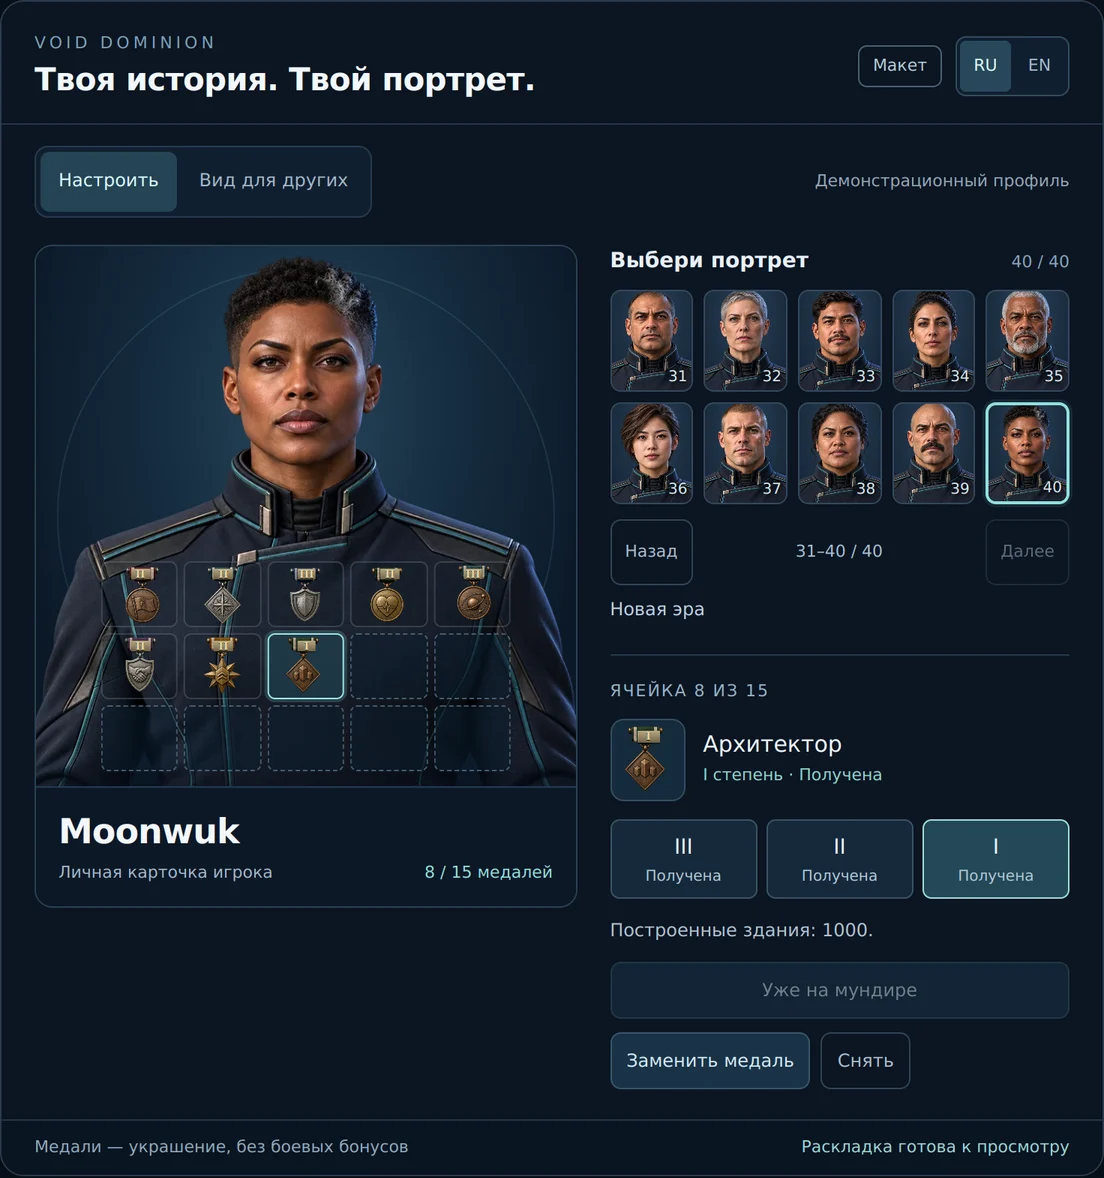
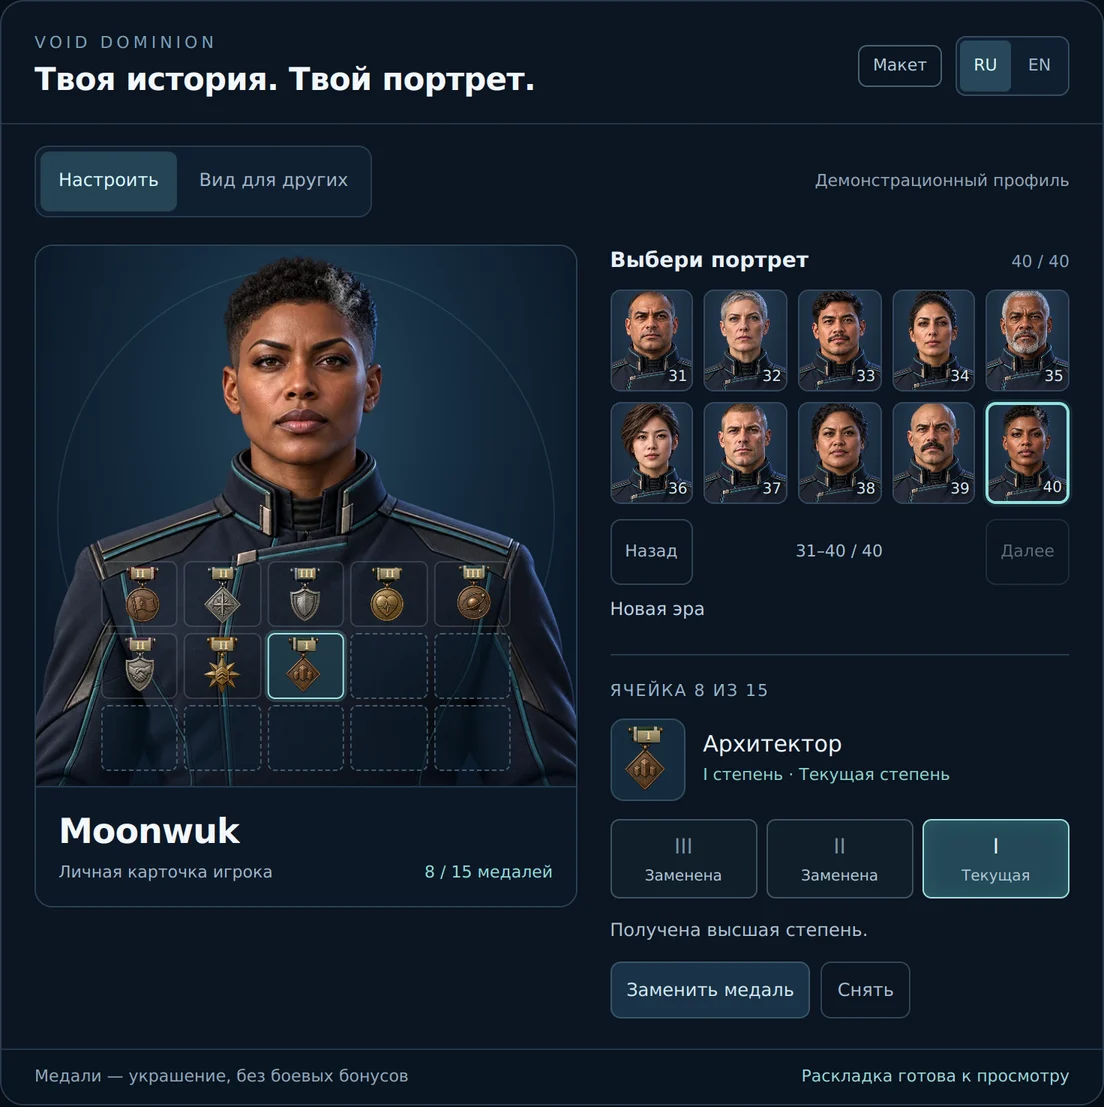
Исправить галерею и автоматическое повышение степеней

diff --git a/docs/mockups/player-profile/index.html b/docs/mockups/player-profile/index.html
@@ -108,10 +108,11 @@
     #vd-player-profile .mg-grade-pin{position:absolute;top:11%;left:32%;width:40%;height:16%;display:flex;align-items:center;justify-content:center;font:600 7px Georgia,serif;line-height:1;color:#e9d8ad;background:linear-gradient(#b6a780,#706246);border-radius:.5px;text-shadow:0 .5px .3px #18120a;box-shadow:0 .4px .5px #0008}
     #vd-player-profile .mg-cloth-slot .mg-grade-pin{font-size:3px}
     #vd-player-profile .mg-grades{display:grid;grid-template-columns:repeat(3,1fr);gap:6px;margin:12px 0}
-    #vd-player-profile .mg-grade-choice{border:1px solid #3b5366;border-radius:6px;background:#15293b;padding:7px 4px;min-height:48px}
-    #vd-player-profile .mg-grade-choice[aria-pressed="true"]{border-color:#9cdedb;background:#234857}
+    #vd-player-profile .mg-grade-choice{display:block;text-align:center;border:1px solid #3b5366;border-radius:6px;background:#15293b;padding:7px 4px;min-height:48px}
+    #vd-player-profile .mg-grade-choice[data-state="current"]{border-color:#9cdedb;background:#234857;box-shadow:inset 0 0 12px #66d6d522}
+    #vd-player-profile .mg-grade-choice[data-state="replaced"]{border-color:#405362;background:#101e2a;color:#78909f}
+    #vd-player-profile .mg-grade-choice[data-state="locked"]{opacity:.58}
     #vd-player-profile .mg-grade-choice small{display:block;font-size:10px;color:#b4c8d8;margin-top:3px}
-    #vd-player-profile .mg-apply-grade{margin-bottom:9px;width:100%}
   </style>
   <article class="mg-window" aria-label="Макет персонализации карточки игрока Void Dominion">
     <header class="mg-top">
@@ -147,7 +148,7 @@
           <div class="mg-detail-head"><div class="mg-detail-emblem"></div><div><div class="mg-detail-title"></div><div class="mg-detail-state"></div></div></div>
           <div class="mg-grades" role="group"></div><p class="mg-criterion"></p>
           <div class="mg-progress-wrap" hidden><div class="mg-progress" role="progressbar" aria-label="Прогресс получения медали"><div class="mg-progress-fill"></div></div><div class="mg-progress-label"></div></div>
-          <button type="button" class="mg-action mg-apply-grade" data-action="apply-grade" hidden></button><div class="mg-actions"><button class="mg-action" type="button" data-action="choose">Выбрать медаль</button><button class="mg-action mg-quiet" type="button" data-action="remove" hidden>Снять</button></div>
+          <div class="mg-actions"><button class="mg-action" type="button" data-action="choose">Выбрать медаль</button><button class="mg-action mg-quiet" type="button" data-action="remove" hidden>Снять</button></div>
         </section>
         <div class="mg-public-list" aria-label="Медали на портрете" hidden></div>
       </aside>
@@ -183,7 +184,7 @@
     const byId = Object.fromEntries(medals.map(m => [m.id,m]));
     const SLOT_COUNT=15;
     const initialMedals=['first','map','shield','rescue','colony','ally','service','engineer'];
-    const state = {portrait:0,slots:Array.from({length:SLOT_COUNT},(_,i)=>initialMedals[i]??null),slot:0,mode:'public',filter:'earned',open:false,inspect:null,language:'ru',page:0,previewGrade:null,grades:{}};
+    const state = {portrait:0,slots:Array.from({length:SLOT_COUNT},(_,i)=>initialMedals[i]??null),slot:0,mode:'public',filter:'earned',open:false,inspect:null,language:'ru',page:0,grades:{}};
     const englishMedals = {
       first:{name:'First Frontier'},
       map:{name:'Cartographer'},
@@ -269,12 +270,21 @@
       $('.mg-progress').setAttribute('aria-label',t('Прогресс получения медали','Progress towards this medal'));
       $('.mg-cosmetic-caption').textContent=t('Медали — украшение, без боевых бонусов','Cosmetic awards · No combat bonuses');
     }
+    function portraitSource(index){return 'assets/portrait-'+String(index+1).padStart(2,'0')+'.webp';}
     function drawPortraits(){
-      $('.mg-main-portrait').src=portraits[state.portrait].src;
+      $('.mg-main-portrait').src=portraitSource(state.portrait);
       $('.mg-main-portrait').alt=t('Портрет «'+pname(state.portrait)+'» с выбранными медалями',pname(state.portrait)+' portrait with selected medals');
       $('.mg-portrait-counter').textContent=portraits[state.portrait].id+' / '+portraits.length;
       $('.mg-selected-name').textContent=pname(state.portrait);
-      $('.mg-portraits').innerHTML=portraits.slice(state.page*10,state.page*10+10).map((p,offset)=>{const i=state.page*10+offset;return '<button type="button" class="mg-portrait-option" data-portrait="'+i+'" aria-label="'+escapeAttr(t('Портрет ','Portrait ')+p.id+': '+pname(i))+'" aria-pressed="'+(i===state.portrait)+'"><img src="'+p.src+'" alt="" width="90" height="90" loading="lazy"><span class="mg-thumb-number" aria-hidden="true">'+p.id+'</span></button>';}).join('');
+      $('.mg-portraits').replaceChildren(...portraits.slice(state.page*10,state.page*10+10).map((p,offset)=>{
+        const i=state.page*10+offset,button=document.createElement('button'),img=document.createElement('img'),number=document.createElement('span');
+        button.type='button';button.className='mg-portrait-option';button.dataset.portrait=i;
+        button.setAttribute('aria-label',t('Портрет ','Portrait ')+p.id+': '+pname(i));
+        button.setAttribute('aria-pressed',i===state.portrait);
+        img.src=portraitSource(i);img.alt='';img.width=90;img.height=90;img.loading='lazy';
+        number.className='mg-thumb-number';number.setAttribute('aria-hidden','true');number.textContent=p.id;
+        button.append(img,number);return button;
+      }));
       $('.mg-page-label').textContent=(state.page*10+1)+'–'+Math.min((state.page+1)*10,portraits.length)+' / '+portraits.length;
       $('.mg-pages').setAttribute('aria-label',t('Страницы портретов','Portrait pages'));
       $('[data-page="-1"]').textContent=t('Назад','Previous');
@@ -301,21 +311,18 @@
     }
     function drawDetail(){
       const m=activeMedal(),isPublic=state.mode==='public';
-      const grade=m?(isPublic?state.grades[m.id]:(state.previewGrade??state.grades[m.id])):3;
-      const available=m&&earned(m,grade);
+      const grade=m?state.grades[m.id]:3;
+      const targetGrade=m?(m.earned?(grade>1?grade-1:null):3):null;
       $('.mg-selection-label').textContent=isPublic?t('Личная награда','Personal award'):t('Ячейка '+(state.slot+1)+' из '+SLOT_COUNT,'Slot '+(state.slot+1)+' of '+SLOT_COUNT);
       $('.mg-detail-emblem').innerHTML=m?emblem(m,grade):'<span class="mg-empty-symbol" aria-hidden="true">+</span>';
       $('.mg-detail-title').textContent=m?mtext(m):(isPublic?t('Без медалей','No medals displayed'):t('Свободное место','Empty slot'));
-      $('.mg-detail-state').textContent=m?gradeName(grade)+' · '+(available?t('Получена','Earned'):t('Пока недоступна','Not yet available')):(isPublic?t('Награды не размещены','No awards displayed'):t('Три ряда по пять','Three rows of five'));
+      $('.mg-detail-state').textContent=m?(m.earned?gradeName(grade)+' · '+t('Текущая степень','Current class'):t('Медаль пока не получена','Medal not yet earned')):(isPublic?t('Награды не размещены','No awards displayed'):t('Три ряда по пять','Three rows of five'));
       $('.mg-grades').hidden=!m||isPublic;
-      $('.mg-grades').setAttribute('aria-label',t('Степень медали: I — высшая','Medal class: I is the highest'));
-      $('.mg-grades').innerHTML=m?[3,2,1].map(g=>'<button type="button" class="mg-grade-choice" data-grade="'+g+'" aria-pressed="'+(g===grade)+'" aria-label="'+escapeAttr(gradeName(g)+': '+(earned(m,g)?t('получена','earned'):t('не получена','not earned')))+'"><span>'+roman[g]+'</span><small>'+(earned(m,g)?t('Получена','Earned'):t('Закрыта','Locked'))+'</small></button>').join(''):'';
-      $('.mg-criterion').textContent=m?t(gradeRules[m.id].ru,gradeRules[m.id].en)+': '+goal(m,grade)+'.':(isPublic?t('Игрок ещё не разместил награды на портрете.','This player has not displayed any medals yet.'):t('Нажми на ячейку на груди и выбери медаль из своей коллекции.','Select a chest slot, then choose a medal from your collection.'));
-      $('.mg-progress-wrap').hidden=!m||available;
-      if(m&&!available){const p=$('.mg-progress'),progress=gradeRules[m.id].progress,target=goal(m,grade);p.setAttribute('aria-valuemin','0');p.setAttribute('aria-valuemax',target);p.setAttribute('aria-valuenow',progress);$('.mg-progress-fill').style.width=(100*progress/target)+'%';$('.mg-progress-label').textContent=progress+' / '+target;}
-      $('.mg-apply-grade').hidden=!m||isPublic;
-      $('.mg-apply-grade').disabled=!available||(state.slots[state.slot]===m.id&&state.grades[m.id]===grade);
-      $('.mg-apply-grade').textContent=!available?t('Степень ещё не получена','Class not yet earned'):(state.slots[state.slot]===m.id&&state.grades[m.id]===grade?t('Уже на мундире','Already displayed'):t('Носить '+roman[grade]+' степень','Wear class '+roman[grade]));
+      $('.mg-grades').setAttribute('aria-label',t('Степени обновляются автоматически; I — высшая','Classes upgrade automatically; I is the highest'));
+      $('.mg-grades').innerHTML=m?[3,2,1].map(g=>{const status=!earned(m,g)?'locked':g===grade?'current':'replaced',label=status==='current'?t('Текущая','Current'):status==='replaced'?t('Заменена','Replaced'):t('Закрыта','Locked');return '<span class="mg-grade-choice" data-state="'+status+'" aria-label="'+escapeAttr(gradeName(g)+': '+label)+'"><span>'+roman[g]+'</span><small>'+label+'</small></span>';}).join(''):'';
+      $('.mg-criterion').textContent=m?(isPublic?t(gradeRules[m.id].ru,gradeRules[m.id].en)+': '+goal(m,grade)+'.':targetGrade?t('Следующая степень заменит текущую автоматически. ','The next class will replace the current one automatically. ')+t(gradeRules[m.id].ru,gradeRules[m.id].en)+': '+goal(m,targetGrade)+'.':t('Получена высшая степень.','Highest class earned.')):(isPublic?t('Игрок ещё не разместил награды на портрете.','This player has not displayed any medals yet.'):t('Нажми на ячейку на груди и выбери медаль из своей коллекции.','Select a chest slot, then choose a medal from your collection.'));
+      $('.mg-progress-wrap').hidden=!m||isPublic||targetGrade===null;
+      if(m&&!isPublic&&targetGrade!==null){const p=$('.mg-progress'),progress=gradeRules[m.id].progress,target=goal(m,targetGrade);p.setAttribute('aria-valuemin','0');p.setAttribute('aria-valuemax',target);p.setAttribute('aria-valuenow',Math.min(progress,target));$('.mg-progress-fill').style.width=(100*Math.min(progress,target)/target)+'%';$('.mg-progress-label').textContent=progress+' / '+target;}
       $('.mg-actions').hidden=isPublic;
       $('[data-action="choose"]').textContent=state.open?t('К доступным медалям','Show earned medals'):(state.slots[state.slot]?t('Заменить медаль','Replace medal'):t('Выбрать медаль','Choose medal'));
       $('[data-action="remove"]').hidden=!state.slots[state.slot]||!!state.inspect;
@@ -334,7 +341,7 @@
     }
     function draw(){
       const previousFocus=document.activeElement;
-      const focusAttr=['data-slot','data-medal','data-public-medal','data-grade'].find(key=>previousFocus&&root.contains(previousFocus)&&previousFocus.hasAttribute(key));
+      const focusAttr=['data-slot','data-medal','data-public-medal'].find(key=>previousFocus&&root.contains(previousFocus)&&previousFocus.hasAttribute(key));
       const focusValue=focusAttr?previousFocus.getAttribute(focusAttr):null;
       const isPublic=state.mode==='public';
       $('.mg-window').classList.toggle('mg-public',isPublic);
@@ -348,9 +355,6 @@
     root.addEventListener('click',e=>{
       const b=e.target.closest('button');if(!b||!root.contains(b)||b.disabled)return;
       if(b.dataset.page){state.page+=Number(b.dataset.page);drawPortraits();const next=root.querySelector('[data-page="'+b.dataset.page+'"]');if(next.disabled)root.querySelector('[data-page="'+(-Number(b.dataset.page))+'"]').focus();return;}
-      if(b.dataset.grade){state.previewGrade=Number(b.dataset.grade);draw();announce(gradeName(state.previewGrade));return;}
-      if(b.dataset.action==='apply-grade'){const m=activeMedal(),g=state.previewGrade??(m&&state.grades[m.id]);if(!m||!earned(m,g))return;const source=state.slots.indexOf(m.id),old=state.slots[state.slot];if(source>=0&&source!==state.slot)state.slots[source]=old;state.slots[state.slot]=m.id;state.grades[m.id]=g;state.inspect=null;draw();announce(medalName(m));return;}
-      if(!b.dataset.language&&b.dataset.portrait===undefined)state.previewGrade=null;
       if(b.dataset.language){state.language=b.dataset.language;drawPortraits();draw();announce(t('Выбран русский язык','English selected'));return;}
       if(b.dataset.portrait!==undefined){state.portrait=Number(b.dataset.portrait);drawPortraits();root.querySelector('[data-portrait="'+state.portrait+'"]').focus({preventScroll:true});announce(t('Портрет изменён. Медали сохранены.','Portrait changed. Medal layout preserved.'));return;}
       if(b.dataset.mode){state.mode=b.dataset.mode;state.inspect=null;if(state.mode==='public'&&!state.slots[state.slot])state.slot=Math.max(0,state.slots.findIndex(Boolean));draw();announce(state.mode==='public'?t('Так карточку видит другой игрок','This is how other players see your profile'):t('Режим настройки','Customization mode'));return;}
